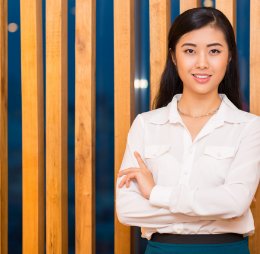
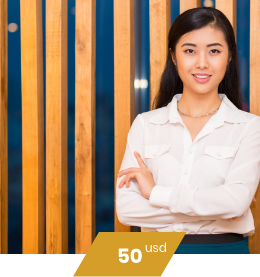
Update style for Content & Carousel

diff --git a/src/components/Content/Content.scss b/src/components/Content/Content.scss
@@ -7,6 +7,18 @@
   background-position: center;
   text-align: center;
   padding: 20px 0;
+
+  > iframe {
+    @media only screen and (max-width: $mobileBreakPoint) {
+      width: 313px;
+      height: 175px;
+    }
+
+    @media only screen and (min-width: $mobileBreakPoint + 1) {
+      width: 784px;
+      height: 438px;
+    }
+  }
   @media only screen and (max-width: $mobileBreakPoint) {
     margin-top: 20px;
   }
@@ -19,58 +31,73 @@
 .InfoCarousel {
   @media only screen and (max-width: $mobileBreakPoint) {
     padding: 25px 15px;
+    .Icon {
+      padding-left: 10px;
+      padding-bottom: 5px;
+      max-width: 22px;
+      max-height: 20px;
+      > img {
+        width: 100%;
+      }
+    }
+    .Image {
+      > img {
+        width: 100%;
+      }
+      max-width: 242px;
+      max-height: 163px;
+    }
+
+    .InfoCardContainer {
+      display: flex;
+      flex-direction: column;
+    }
   }
 
   @media only screen and (min-width: $mobileBreakPoint + 1) {
     padding: 70px 0;
+
+    .Icon {
+      padding-left: 25px;
+      padding-bottom: 5px;
+    }
+    .InfoCardContainer {
+      display: flex;
+      align-items: center;
+      padding: 10px 0;
+    }
   }
 
-  .InfoCardContainer {
-    display: flex;
-    align-items: center;
-    padding: 10px 0;
+  .InfoText {
+    background-color: white;
+    z-index: 1;
+    box-shadow: 6px 8px 15px 0px rgba(213, 158, 41, 0.1);
 
-    .InfoText {
-      background-color: white;
-      z-index: 1;
-      box-shadow: 6px 8px 15px 0px rgba(213, 158, 41, 0.1);
-
-      @media only screen and (max-width: $mobileBreakPoint) {
-        padding: 5px 15px;
-        margin: 20px;
-        max-width: 291px;
-        max-height: 203px;
-      }
-
-      @media only screen and (min-width: $mobileBreakPoint + 1) {
-        padding: 20px;
-        margin-right: -35px;
-        max-width: 436px;
-        max-height: 304px;
-      }
-
-      .Title {
-        @extend %fontHeader;
-      }
-
-      .Subtitle {
-      }
-
-      .Description {
-        padding-top: 20px;
-      }
+    @media only screen and (max-width: $mobileBreakPoint) {
+      padding: 5px 10px;
+      margin-top: -30px;
+      margin-left: 35px;
+      max-width: 291px;
+      max-height: 203px;
+      order: 1;
     }
 
-    .Image {
-      @media only screen and (max-width: $mobileBreakPoint) {
-        max-width: 242px;
-        max-height: 163px;
-      }
+    @media only screen and (min-width: $mobileBreakPoint + 1) {
+      padding: 20px 20px 10px 20px;
+      margin-right: -35px;
+      max-width: 436px;
+    }
 
-      @media only screen and (min-width: $mobileBreakPoint + 1) {
-        max-width: 550px;
-        max-height: 372px;
-      }
+    .Title {
+      @extend %fontHeader;
+      @extend %fontBold;
+    }
+
+    .Subtitle {
+    }
+
+    .Description {
+      padding-top: 20px;
     }
   }
 }
@@ -88,6 +115,10 @@
     box-shadow: 0px 3px 6px 0px rgba(0, 0, 0, 0.1);
     margin-bottom: 10px;
     position: relative;
+    padding: 0 5px;
+    img {
+      width: 100%;
+    }
     .Level {
       position: absolute;
       top: 10px;
@@ -108,35 +139,16 @@
       }
     }
 
-    .ImageContainer {
-      display: flex;
-      flex-direction: column;
-      align-items: center;
-
-      .Price {
-        position: absolute;
-        top: 230px;
-        @extend %fontBold;
-        font-size: 20px;
-        color: white;
-        background-color: $gold;
-        transform: skewX(-25deg);
-        padding: 5px 15px;
-        border: 1px solid $gold;
-        box-sizing: content-box;
-      }
-    }
-
     .Title {
       @extend %fontMedium;
-      padding: 40px 10px 40px 10px;
+      padding: 20px 0;
 
       @media only screen and (max-width: $mobileBreakPoint) {
         font-size: 14px;
       }
 
       @media only screen and (min-width: $mobileBreakPoint + 1) {
-        font-size: 20px;
+        font-size: 18px;
         height: 70px;
       }
     }
@@ -148,7 +160,8 @@
       padding-bottom: 20px;
 
       .PayNow {
-        padding: 10px 40px;
+        text-align: center;
+        padding: 10px 25px;
         border: 1px solid $gold;
         @extend %fontSemiBold;
         color: white;

diff --git a/src/components/Carousel/components.js b/src/components/Carousel/components.js
@@ -15,15 +15,21 @@ export const CarouselContainer = styled.div`
   transition: ${props =>
     props.sliding ? 'none' : 'transform 1s ease'};
   transform: ${props => {
-    if (!props.sliding) return 'translateX(calc(-80% - 20px))';
-    if (props.dir === PREV)
-      return 'translateX(calc(2 * (-80% - 20px)))';
-    return 'translateX(0%)';
+    if (!props.sliding) return 'translateX(0px)';
+    if (props.dir === PREV) return 'translateX(-80%)';
+    return 'translateX(80%)';
   }};
 `;
 
 export const CourseCarouselContainer = styled.div`
   display: flex;
+  transition: ${props =>
+    props.sliding ? 'none' : 'transform 1s ease'};
+  transform: ${props => {
+    if (!props.sliding) return 'translateX(0% )';
+    if (props.dir === PREV) return 'translateX(-20%)';
+    return 'translateX(20%)';
+  }};
 `;
 
 export const Wrapper = styled.div`
@@ -41,27 +47,17 @@ export const CarouselSlot = styled.div`
 export const CourseCarouselSlot = styled.div`
   flex: 1 0 100%;
   flex-basis: 20%;
+  overflow: hidden;
   order: ${props => props.order};
 `;
 
 export const SlideButton = styled.button`
-    color: #ffffff;
-    font-family: Open Sans;
-    font-size: 16px;
-    font-weight: 100;
-    padding: 10px;
-    background-color: #f66f3e;
-    border: 1px solid white;
-    text-decoration: none;
-    display: inline-block;
-    cursor: pointer;
-  text-decoration: none;
-
   &:active {
     position: relative;
     top: 1px;
   }
   &:focus {
+    cursor: pointer;
     outline: 0;
   }
 `;

diff --git a/src/components/Content/Content.js b/src/components/Content/Content.js
@@ -61,8 +61,6 @@ function Content() {
     <div>
       <div className="Video">
         <iframe
-          width="784"
-          height="438"
           src="https://www.youtube.com/embed/KRiSMXFpWIg"
           frameBorder="0"
           allow="accelerometer; autoplay; encrypted-media; gyroscope; picture-in-picture"
@@ -122,15 +120,10 @@ function Content() {
           {courseCarouselData.map((courseCarouselItem, index) => (
             <div className="InfoCardContainer" key={index}>
               <div className="Level">{courseCarouselItem.level}</div>
-              <div className="ImageContainer">
-                <img
-                  src={require(`../../assets/images/${courseCarouselItem.backgroundImage}`)}
-                  alt="image"
-                />
-                <div className="Price">
-                  {courseCarouselItem.price}
-                </div>
-              </div>
+              <img
+                src={require(`../../assets/images/${courseCarouselItem.backgroundImage}`)}
+                alt="image"
+              />
               <div className="Title">{courseCarouselItem.title}</div>
               <div className="PayContainer">
                 <div className="PayNow">THANH TOÁN NGAY</div>

diff --git a/src/components/Carousel/CourseCarousel.js b/src/components/Carousel/CourseCarousel.js
@@ -1,4 +1,6 @@
 import React from 'react';
+import PrevIcon from '../../assets/images/icon_prev.svg';
+import NextIcon from '../../assets/images/icon_next.svg';
 import { useSwipeable } from 'react-swipeable';
 import {
   Wrapper,
@@ -52,8 +54,12 @@ const Carousel = props => {
           ))}
         </CourseCarouselContainer>
       </Wrapper>
-      <SlideButton onClick={() => slide(PREV)}>Prev</SlideButton>
-      <SlideButton onClick={() => slide(NEXT)}>Next</SlideButton>
+      <SlideButton onClick={() => slide(PREV)}>
+        <img src={PrevIcon} alt="Prev"></img>
+      </SlideButton>
+      <SlideButton onClick={() => slide(NEXT)}>
+        <img src={NextIcon} alt="Prev"></img>
+      </SlideButton>
     </div>
   );
 };

diff --git a/src/components/Carousel/Carousel.js b/src/components/Carousel/Carousel.js
@@ -1,4 +1,6 @@
 import React from 'react';
+import PrevIcon from '../../assets/images/icon_prev.svg';
+import NextIcon from '../../assets/images/icon_next.svg';
 import { useSwipeable } from 'react-swipeable';
 import {
   Wrapper,
@@ -49,8 +51,12 @@ const Carousel = props => {
           ))}
         </CarouselContainer>
       </Wrapper>
-      <SlideButton onClick={() => slide(PREV)}>Prev</SlideButton>
-      <SlideButton onClick={() => slide(NEXT)}>Next</SlideButton>
+      <SlideButton onClick={() => slide(PREV)}>
+        <img src={PrevIcon} alt="Prev"></img>
+      </SlideButton>
+      <SlideButton onClick={() => slide(NEXT)}>
+        <img src={NextIcon} alt="Prev"></img>
+      </SlideButton>
     </div>
   );
 };

diff --git a/src/components/Header/Header.scss b/src/components/Header/Header.scss
@@ -11,11 +11,13 @@
     color: $brown;
     border: 1px solid white;
     background-color: white;
+    cursor: pointer;
   }
   &:hover {
     color: $brown;
     border: 1px solid white;
     background-color: white;
+    cursor: pointer;
   }
   & > span {
     display: inline-block;
